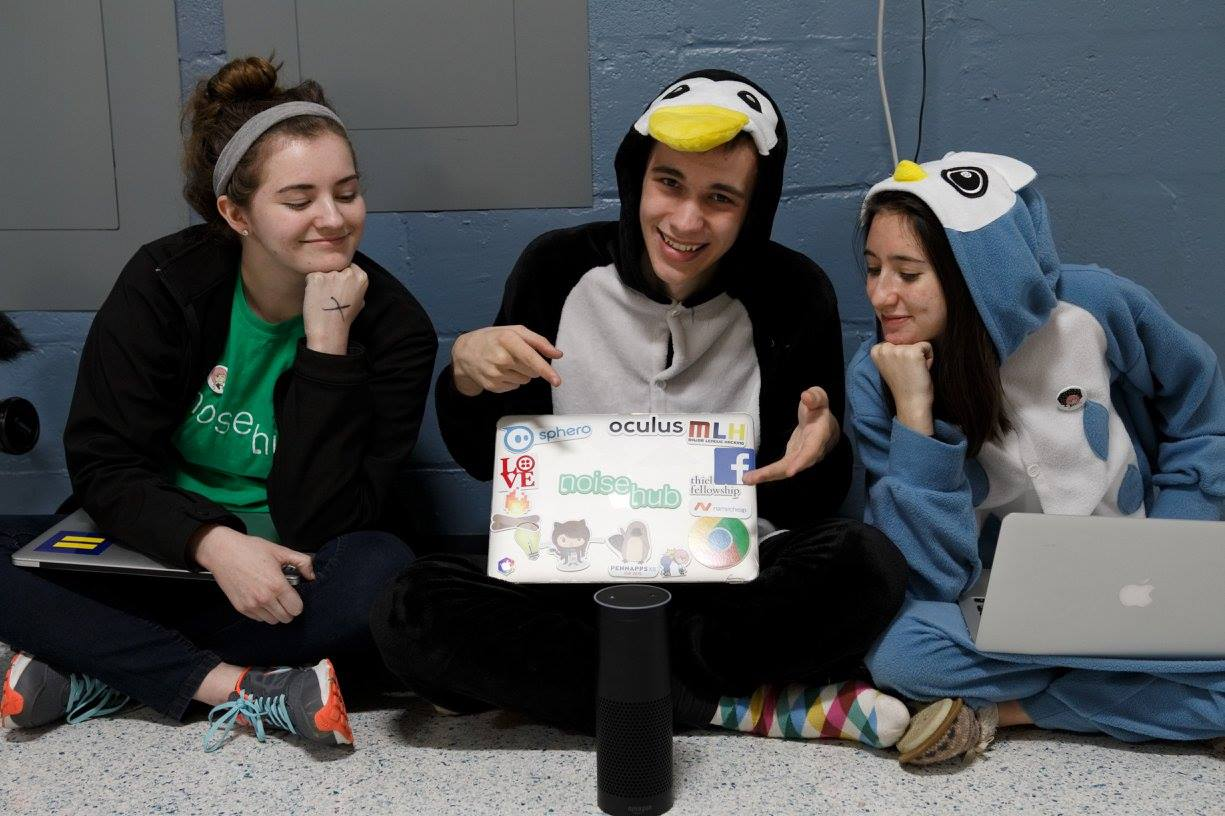
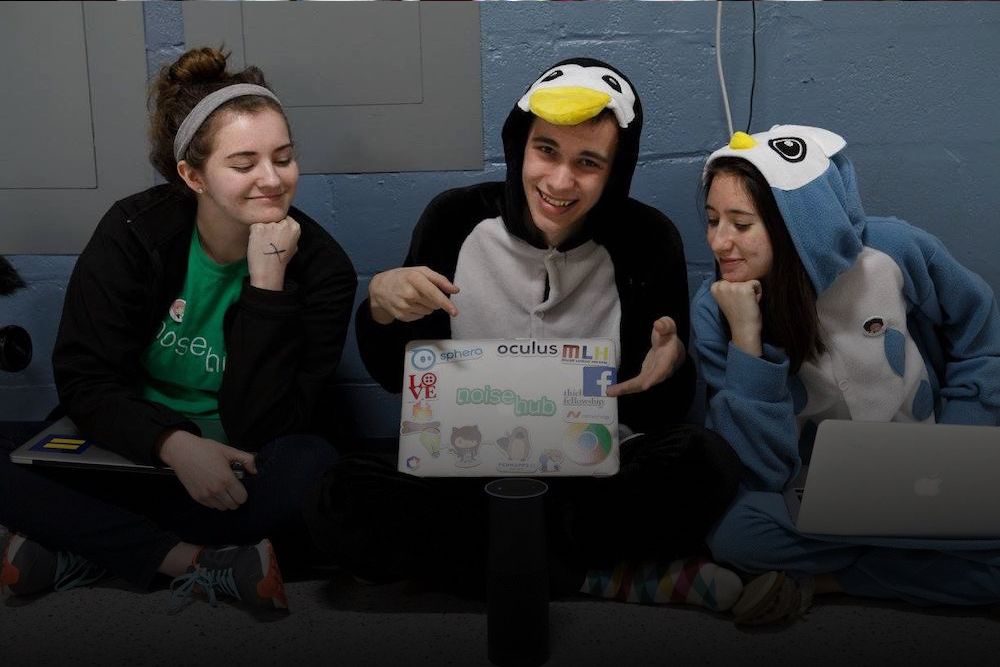
Fix thumbnail hovering

diff --git a/styles.css b/styles.css
@@ -296,13 +296,13 @@ footer {
     .filler {
         width: 100%;
         height: 100%;
-        background: linear-gradient(to bottom, rgba(0, 0, 0, 0) 0%, rgba(0, 0, 0, .4) 59%, rgba(0, 0, 0, 0.65) 100%);
+
         border-radius: 35px;
         transition: .4s;
     }
 
     .filler:hover{
-        background: rgba(0, 0, 0, 0.65);
+        background: rgba(0, 0, 0, 0.50);
         transition: .4s;
     }
 
